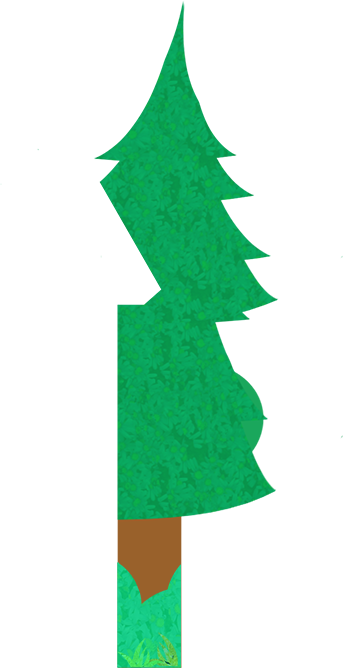
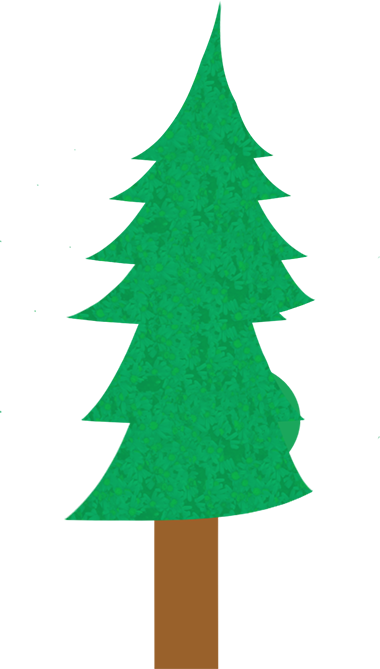
changed window flow

diff --git a/src/views/EditHome.vue b/src/views/EditHome.vue
@@ -193,6 +193,7 @@
       <img v-if="home.homeType === 'castel'" class="left-tower" src="@/assets/img/left-tower.png" alt="" />
       <img v-if="home.homeType === 'castel'" class="right-tower" src="@/assets/img/right-tower.png" alt="" />
       <img v-if="home.homeType === 'farm'" class="farm-tree" src="@/assets/img/farm-tree.png" alt="" />
+      <img v-if="home.homeType === 'farm'" class="farm-tree-bush" src="@/assets/img/tree-bush.png" alt="">
       <img v-if="home.homeType === 'farm'" class="farm-bush" src="@/assets/img/farm-bush.png" alt="" />
 
 
@@ -651,6 +652,9 @@
           
             </div>
           </div>
+          <!-- <div v-if="showLike" class="like-img">
+            <img src="@/assets/img/like-btn.png" alt="">
+          </div> -->
         </div>
         
         <div
@@ -687,6 +691,14 @@
         </div>
         
         <img
+          v-if="selectedWindow && dialogStep !== 2 && home.windows[selectedWindow].name && home.windows[selectedWindow].pic"
+          class="agree"
+          @click="setDialogStep"
+          src="@/assets/img/like-btn.png"
+          alt=""
+        />
+        <img
+          v-if=" isWindowComplete "
           class="agree"
           @click="setDialogStep"
           src="@/assets/img/like-btn.png"
@@ -1127,6 +1139,19 @@ export default {
   computed: {
     home() {
       return this.$store.getters.getHome || {};
+    },
+    isWindowComplete(){    
+      if(this.selectedWindow && this.home.windows[this.selectedWindow].answers && this.home.windows[this.selectedWindow].question.length > 0 ){
+        let flag = true
+        this.home.windows[this.selectedWindow].answers.forEach(a => {
+        if(a.length < 1){
+          flag = false
+          return
+        }
+      })
+       return flag
+      }
+      return false
     },
     homePic() {
       return this.$store.getters.getHomePic || {};
@@ -1678,7 +1703,7 @@ input{
       right: 15vw;
       z-index: 1;
       img {
-        height: 26vh;
+        height: 22vh;
       }
     }
 
@@ -1688,8 +1713,8 @@ input{
       right: 15vw;
       z-index: 1;
       img {
-        width: 46vw;
-        height: 18vh;
+        width: 43vw;
+        height: 15vh;
 
       }
     }
@@ -1729,10 +1754,16 @@ input{
   .farm-tree{
     position: absolute;
     // z-index: 50;
-    height: 63vh;
-    right: -47%;
-    top: -32%;
-    width: 100vw;
+    height: 72vh;
+    right: -37%;
+    top: -65%;
+    // width: 100vw;
+  }
+  .farm-tree-bush{
+    height: 9vh;
+    position: absolute;
+    right: 1%;
+    top: 53%;
   }
   .farm-bush{
     position: absolute;
@@ -1746,7 +1777,7 @@ input{
     margin: 0 auto;
     .wall-pic {
       width: 76vw;
-      height: 24vh;
+      height: 27vh;
     }
     .castel-wall-pic {
       width: 70vw;
@@ -1891,7 +1922,7 @@ input{
   // }
 }
 
-.step2 {
+.step2  {
   margin-top: 20px;
   margin-bottom: 21px;
   .answer {

diff --git a/src/App.vue b/src/App.vue
@@ -22,13 +22,21 @@ export default {
   components: { AppDialog, AppNav },
   mounted() {
     this.setComponentData();
+    document.addEventListener("backbutton", this.goBack, false);
+  },
+  beforeDestroy () {
+    document.removeEventListener("backbutton", this.goBack);
   },
   methods: {
     setComponentData() {
       this.$store.commit('setOpenDialogFunc', this.$refs.dialog.open);
-    }
+    },
+  goBack(){
+    router.go(-1)
+  }
   }
 };
+  
 </script>
 
 <style lang="scss">

diff --git a/src/components/AppDialog.vue b/src/components/AppDialog.vue
@@ -22,7 +22,7 @@
           </div>
           <slot></slot>
         </div>
-        <div v-if="!hideBtns && !hideDec" class="btns flex space-between">
+        <div v-if="!hideBtns" class="btns flex space-between">
           <!-- <div  class="btn back cancel"> -->
           <!-- <img
             class="decline"
